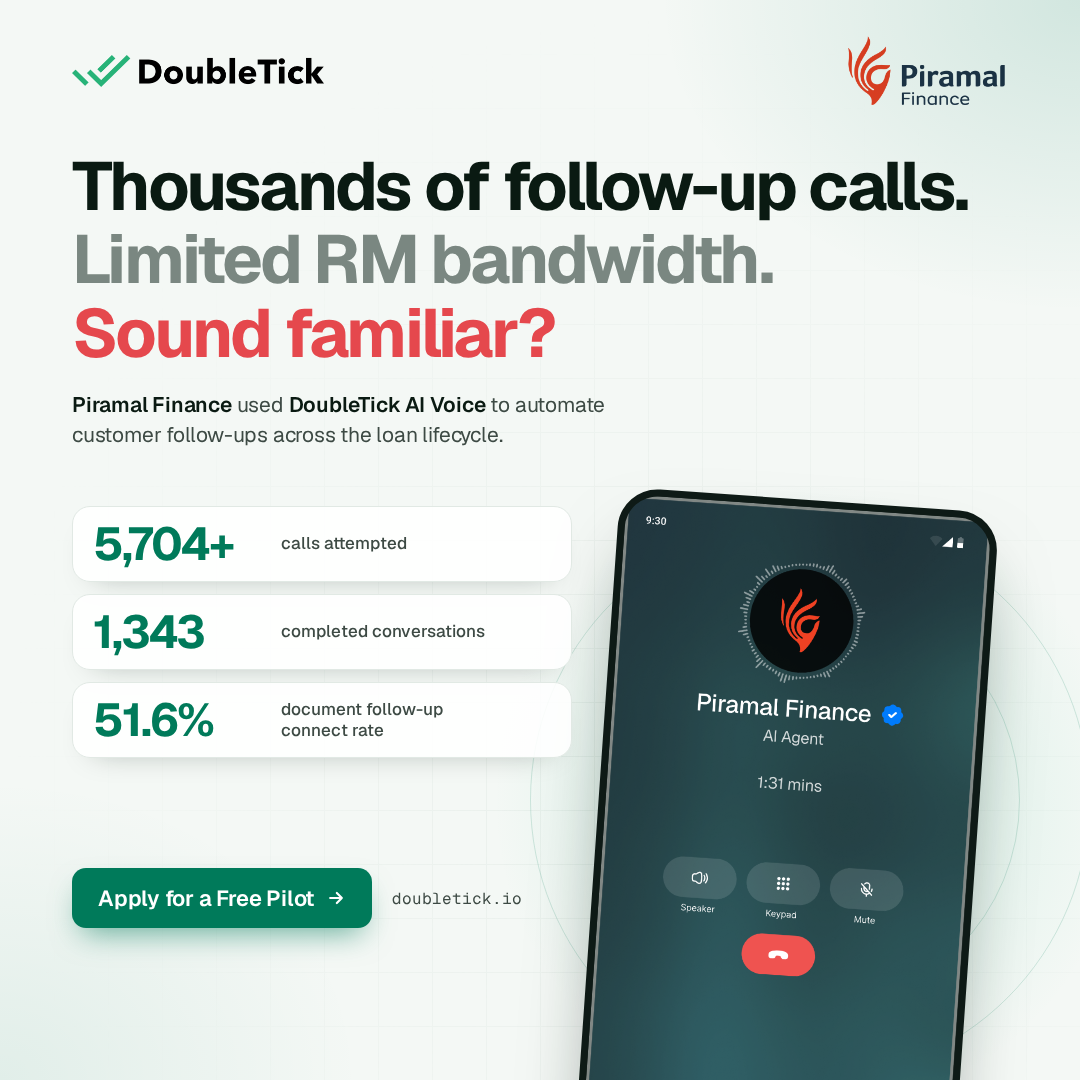
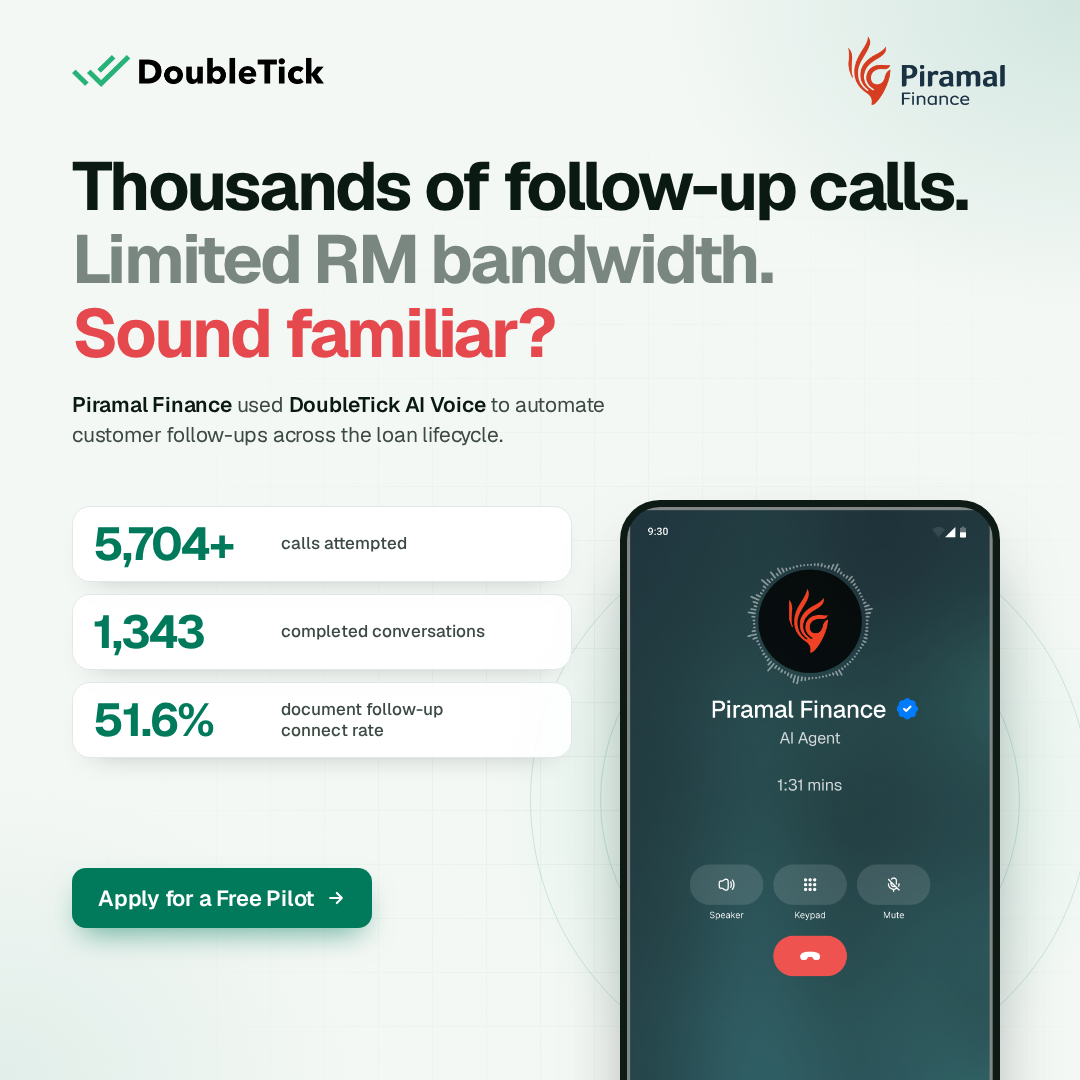
feat: straighten phone and remove URL in Piramal results ad
Claude-Session: https://claude.ai/code/session_013Hi5o4KgvuLbKTeGkStAKX

diff --git a/ads/doubletick-case-piramal-stats/index.html b/ads/doubletick-case-piramal-stats/index.html
@@ -65,7 +65,7 @@
     background: radial-gradient(circle, rgba(47,191,143,.22) 0%, rgba(47,191,143,.08) 40%, rgba(47,191,143,0) 70%); }
   .rings i { position: absolute; left: 50%; top: 50%; border-radius: 50%; border: 1.5px solid rgba(0,122,90,.16); transform: translate(-50%,-50%); }
   .phone {
-    position: absolute; left: 50%; top: 0; transform: translateX(-50%) rotate(4deg); transform-origin: 50% 0;
+    position: absolute; left: 50%; top: 0; transform: translateX(-50%); transform-origin: 50% 0;
     width: 380px; height: auto; display: block; border-radius: 40px; border: 7px solid #0E1A16; background: #0E1A16;
     box-shadow: 0 40px 80px -30px rgba(10,26,18,.6);
   }
@@ -111,7 +111,6 @@
     <div class="btn">Apply for a Free Pilot
       <svg width="20" height="20" viewBox="0 0 24 24" fill="none" stroke="#fff" stroke-width="2.6" stroke-linecap="round" stroke-linejoin="round"><path d="M5 12h14M13 6l6 6-6 6"/></svg>
     </div>
-    <div class="url mono">doubletick.io</div>
   </div>
 </div>
 </body>
